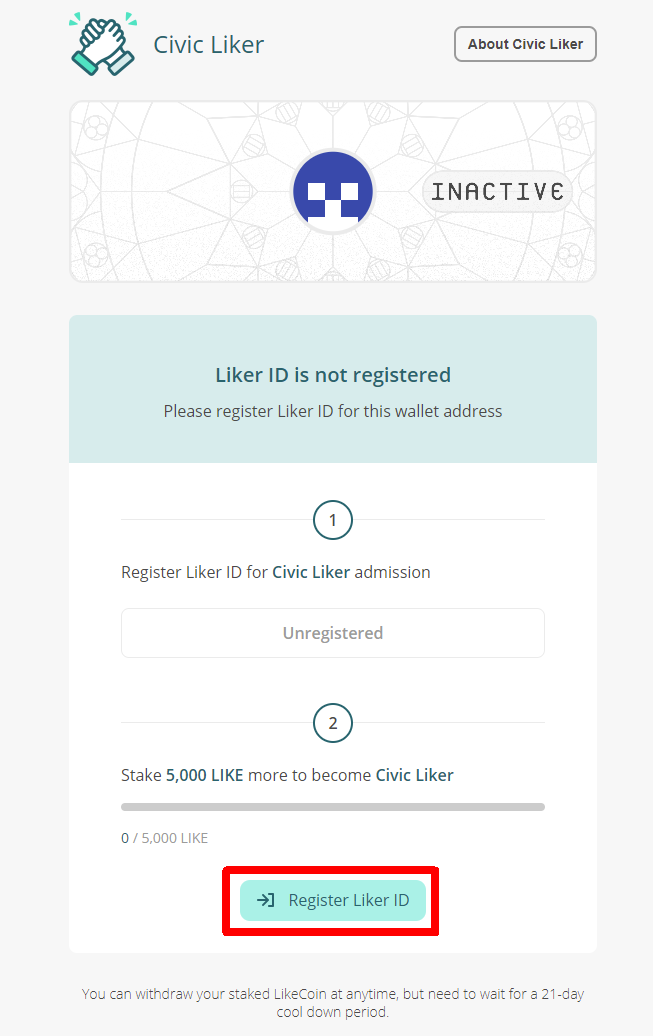
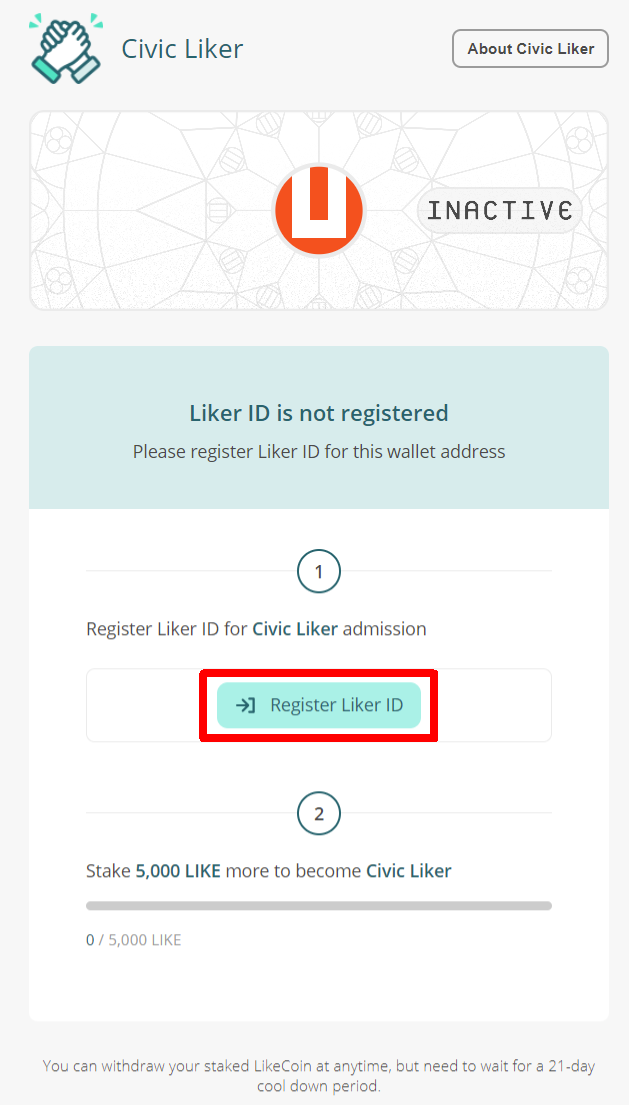
GITBOOK-4440: Updated - Register a Liker ID with Keplr

diff --git a/user-guide/liker-id/register-with-keplr.md b/user-guide/liker-id/register-with-keplr.md
@@ -46,37 +46,37 @@ Install the Keplr wallet before registering your Liker ID. If you have already c
 
 Go to [https://liker.land/](https://liker.land/) and click "Connect Wallet" on the top right hand corner.
 
-<figure><img src="../../.gitbook/assets/Keplr Register Liker ID 01.png" alt=""><figcaption></figcaption></figure>
+<figure><img src="../../.gitbook/assets/Keplr Register Liker ID 01.png" alt=""><figcaption><p>Click "Connect Wallet"</p></figcaption></figure>
 
 On the pop-up windows click "Keplr".
 
-<figure><img src="../../.gitbook/assets/Keplr Register Liker ID 02.png" alt=""><figcaption></figcaption></figure>
+<figure><img src="../../.gitbook/assets/Keplr Register Liker ID 02-en.png" alt=""><figcaption><p>Click "Keplr"</p></figcaption></figure>
 
 On the Keplr pop-up window, click "Approve".
 
-<figure><img src="../../.gitbook/assets/Keplr Register Liker ID 03.png" alt=""><figcaption></figcaption></figure>
+<figure><img src="../../.gitbook/assets/Keplr Register Liker ID 03.png" alt=""><figcaption><p>On the Keplr pop-up window, click "Approve"</p></figcaption></figure>
 
-On the menu click "Civic Liker, or directly go to [https://liker.land/civic](https://liker.land/civic).
+Visit the "[Civic Liker](../civic-liker/)" from the bottom of the [Liker Land website homepage](https://liker.land/) or directly go to [https://liker.land/civic](https://liker.land/civic).
 
-<figure><img src="../../.gitbook/assets/Keplr Register Liker ID 04.png" alt=""><figcaption></figcaption></figure>
+<figure><img src="../../.gitbook/assets/Civic Liker menu-en.png" alt=""><figcaption><p>Civic Liker</p></figcaption></figure>
 
 ### Step 3: Start Registering
 
 Click "Register Liker ID".
 
-<figure><img src="../../.gitbook/assets/Keplr Register Liker ID 05-en.png" alt=""><figcaption></figcaption></figure>
+<figure><img src="../../.gitbook/assets/Keplr Register Liker ID 05-en.png" alt=""><figcaption><p>Click "Register Liker ID"</p></figcaption></figure>
 
 On the Keplr pop-up windows, click "Approve".
 
-<figure><img src="../../.gitbook/assets/Keplr Register Liker ID 06-en.png" alt=""><figcaption></figcaption></figure>
+<figure><img src="../../.gitbook/assets/Keplr Register Liker ID 06-en.png" alt=""><figcaption><p>On the Keplr pop-up windows, click "Approve"</p></figcaption></figure>
 
 Fill in your desired Liker ID then click "Confirm".
 
-<figure><img src="../../.gitbook/assets/Keplr Liker ID 14-en.png" alt=""><figcaption></figcaption></figure>
+<figure><img src="../../.gitbook/assets/Keplr Liker ID 14-en.png" alt=""><figcaption><p>Fill in your Liker ID then click "Confirm"</p></figcaption></figure>
 
 Enter your display name and bio and click "Confirm".
 
-<figure><img src="../../.gitbook/assets/Keplr Liker ID 15-en.png" alt=""><figcaption></figcaption></figure>
+<figure><img src="../../.gitbook/assets/Keplr Liker ID 15-en.png" alt=""><figcaption><p>Enter your display name and bio and click "Confirm</p></figcaption></figure>
 
 Liker ID is created and will bring back the login page.
 
@@ -90,14 +90,8 @@ You cannot change the Liker ID nor the login method once it has been created. If
 
 On Liker Land [settings](https://like.co/in/settings), your LikeCoin wallet address is the same as the Keplr address, which means that you have successfully registered your Liker ID with Keplr.
 
-<figure><img src="../../.gitbook/assets/Keplr Register Liker ID 09-en.png" alt=""><figcaption></figcaption></figure>
+<figure><img src="../../.gitbook/assets/Keplr Register Liker ID 09-en.png" alt=""><figcaption><p>Check your LikeCoin wallet address</p></figcaption></figure>
 
 {% hint style="info" %}
 If you have more than one Liker IDs that registered by Authcore and Keplr, please make sure that you log out completely by clicking logout in the menu before sign in another account.
 {% endhint %}
-
-## User Guide
-
-{% content-ref url="../../general-guides/wallet/keplr/" %}
-[keplr](../../general-guides/wallet/keplr/)
-{% endcontent-ref %}

diff --git a/user-guide/civic-liker/dashboard.md b/user-guide/civic-liker/dashboard.md
@@ -6,6 +6,6 @@ description: Check out your Civic Liker Status
 
 Visit the "[Civic Liker](./)" from the bottom of the [Liker Land website homepage](https://liker.land/). Users can view the membership status of Civic Likers on this page.
 
-<figure><img src="../../.gitbook/assets/Civic Liker menu-en (1).png" alt=""><figcaption><p>Civic Liker</p></figcaption></figure>
+<figure><img src="../../.gitbook/assets/Civic Liker menu-en.png" alt=""><figcaption><p>Civic Liker</p></figcaption></figure>
 
 <figure><img src="../../.gitbook/assets/Civic Liker Setting-en.png" alt=""><figcaption><p>Civic Liker Status</p></figcaption></figure>
